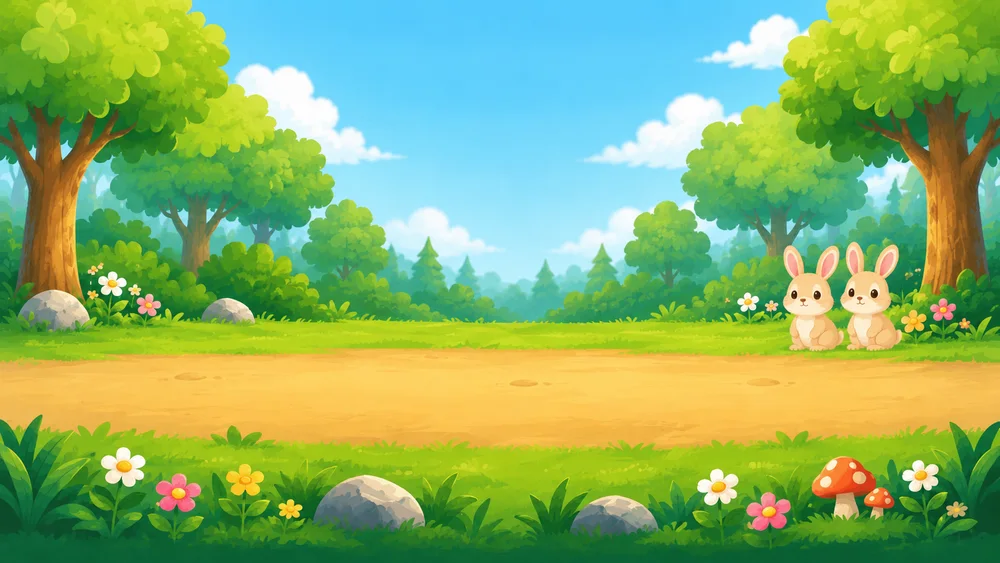
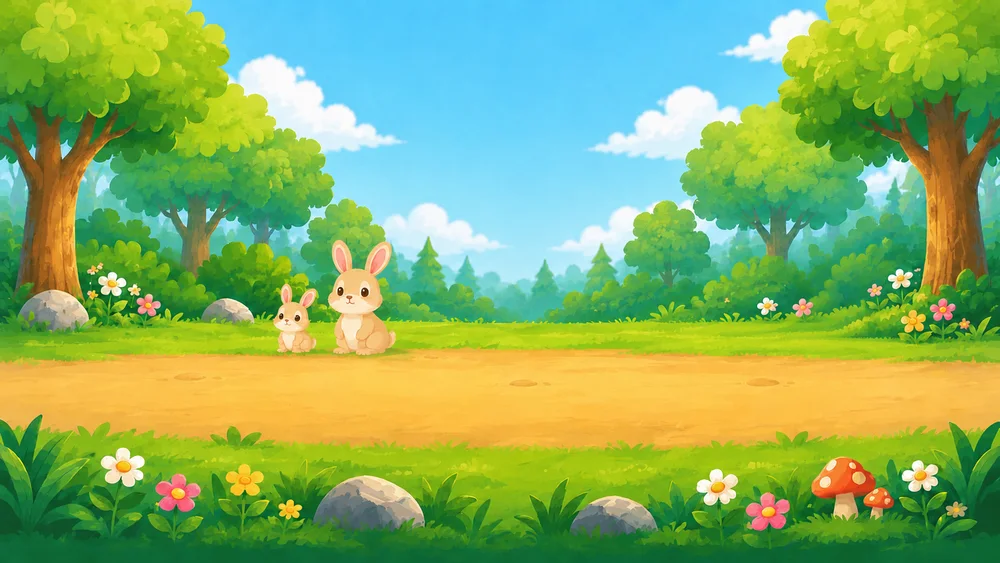
feat: 배경 3건 — 숲길 v2 교체 · 동굴 탑재 · 9번째 탐험 '초원을 달리자!'
사용자 원화 3장:
- 숲길 산책 v2 교체 (토끼 좌측 배치 — 도착 깃발 자리가 트임). v1은 art-src 보존
- 동굴 배경 탑재 — 왼쪽 입구에서 바닥 흙길 따라 오른쪽 수정 아치 출구로,
  별 깃발이 출구 팻말 옆에 꽂힘 (다크 톤 칩 유지)
- 초원 '초원을 달리자!' 신규 (9번째) — 양·풍차 초원, 결승선 별 깃발.
  순환: 강→산→숲→동굴→사막→바다→유적→숲길산책→초원→다시 강 (9일 주기)

검증(실제 앱 3배율): 동굴 출발/도착·초원 출발/도착·숲길v2 5개 상태 스크린샷,
9일 순환 롤 확인. vite build 통과.

Claude-Session: https://claude.ai/code/session_018maNuYqDfFyRSe9uKpZhPR

diff --git a/src/data/expeditions.js b/src/data/expeditions.js
@@ -92,7 +92,10 @@ export const EXPEDITIONS = {
       deco:[[6,28,"🌳",28],[14,62,"🍄",13],[93,30,"🌳",26],[87,66,"🌿",14],[9,84,"🦋",11]] } },
   cave: { key:"cave", title:"동굴을 빠져나가자!", emoji:"🕳",
     pose:"walk", item:"torch", goal:"🌕", goalImg:"assets/expedition/flag/yellow.webp",   // 어둠 속 별 깃발
+    bgImg:"assets/expedition/bg-cave.webp",   // 사용자 배경 원화 (왼쪽 입구→오른쪽 수정 아치 출구, 박쥐·수정)
     scene:{ sky:["#4D4661","#6B617E"], ground:["#5D5470","#443C55"], groundH:34,
+      /* 바닥 흙길을 따라 왼쪽 입구에서 오른쪽 수정 출구로 */
+      charB:20, goalB:24, x0:10, x1:80,
       deco:[[6,26,"🪨",22],[13,80,"💎",12],[93,26,"🦇",14],[88,64,"🪨",16],[95,80,"✨",10]], dark:true } },
   desert: { key:"desert", title:"사막을 건너자!", emoji:"🏜",
     pose:"ride", mount:"camel", goal:"🌴", goalImg:"assets/expedition/flag/red.webp",   // 모래 대비 빨간 깃발
@@ -104,11 +107,18 @@ export const EXPEDITIONS = {
       deco:[[6,28,"☁",18],[13,64,"🐚",12],[93,26,"🌴",24],[88,66,"🐬",14],[8,84,"🫧",11]] } },
   wood: { key:"wood", title:"숲길을 산책하자!", emoji:"🌲",
     pose:"walk", item:"lunchbox", goal:"🏡", goalImg:"assets/expedition/flag/green.webp",   // 숲 = 나뭇잎 깃발
-    bgImg:"assets/expedition/bg-wood.webp",   // 사용자 배경 원화 '그냥 숲 — 산책 컨셉' (원본 art-src/expedition/bg/)
+    bgImg:"assets/expedition/bg-wood.webp",   // 사용자 배경 원화 v2 (토끼 좌측 배치 — 원본 art-src/expedition/bg/)
     scene:{ sky:["#CBE8F5","#EAF6E9"], ground:["#A9CF7F","#8AB763"], groundH:36,
-      /* 넓은 흙길이 하단을 가로지른다 — 길 위 산책. 토끼들(우측 잔디)은 장식 */
+      /* 넓은 흙길이 하단을 가로지른다 — 길 위 산책. 토끼들(좌측 잔디)은 장식 */
       charB:22, goalB:24, x0:10, x1:81,
       deco:[[6,30,"🌳",26],[14,64,"🌼",13],[93,30,"🌳",26],[87,66,"🌿",14],[9,84,"🐇",12]] } },
+  meadow: { key:"meadow", title:"초원을 달리자!", emoji:"🌾",
+    pose:"walk", goal:"🏁", goalImg:"assets/expedition/flag/yellow.webp",   // 결승선 = 별 깃발
+    bgImg:"assets/expedition/bg-meadow.webp",   // 사용자 배경 원화 (양·풍차 초원 — 원본 art-src/expedition/bg/)
+    scene:{ sky:["#BDE3F7","#EAF6E0"], ground:["#A5D06A","#8CBE52"], groundH:38,
+      /* 탁 트인 풀밭을 달린다 — 양(중앙)은 장식, 풍차 언덕이 도착 방향 */
+      charB:24, goalB:28, x0:10, x1:81,
+      deco:[[6,30,"🌳",26],[14,66,"🌼",13],[93,26,"🌻",18],[87,66,"🌿",14],[8,84,"🦋",11]] } },
   ruins: { key:"ruins", title:"보물상자를 찾자!", emoji:"🎁",
     pose:"walk", item:"map", goal:"🎁", goalImg:"assets/expedition/flag/yellow.webp",   // 보물 = 별 깃발
     scene:{ sky:["#E4D9C3","#F4EDDD"], ground:["#C8B48E","#AE9770"], groundH:36,
@@ -116,7 +126,7 @@ export const EXPEDITIONS = {
 };
 
 /* 순환 순서 — 배열 순서 = 탐험 순서. 새 배경은 끝에 추가. */
-export const EXPEDITION_ORDER = ["river","mountain","forest","cave","desert","sea","ruins","wood"];   // 8번째 "숲길 산책" 추가 — 주간 반복이 깨짐
+export const EXPEDITION_ORDER = ["river","mountain","forest","cave","desert","sea","ruins","wood","meadow"];   // 순서대로 순환 — 새 배경은 끝에 추가
 /* 기준일(2026-01-05 월 = 강)부터 하루에 한 칸씩 순서대로 돈다.
    날짜만으로 정해지는 고정 시드라 과거·미래 어느 날짜를 열어도 항상 같다. */
 const EXP_EPOCH = new Date("2026-01-05T00:00:00");

diff --git a/art-src/README.md b/art-src/README.md
@@ -167,3 +167,6 @@ halo가 외곽선을 흐려서 생긴 착시였다.
 | expedition/bg/bg-mountain-src.png | 바위산 배경 (화요일, 1536×1024 — 돌계단 대각선 등반) | expedition/bg-mountain.webp |
 | expedition/bg/bg-forest-v2-src.png | 깊은 숲 배경 v2 (수요일 현행 — v1 숲길 교체, 여우·부엉이·개울) | expedition/bg-forest.webp |
 | expedition/bg/bg-wood-src.png | 숲길 산책 배경 (8번째 탐험 '숲길을 산책하자!' — 토끼 두 마리) | expedition/bg-wood.webp |
+| expedition/bg/bg-wood-v2-src.png | 숲길 산책 배경 v2 (토끼 좌측 배치 — v1 교체, 현행) | expedition/bg-wood.webp |
+| expedition/bg/bg-cave-src.png | 동굴 배경 (왼쪽 입구→오른쪽 수정 아치 출구, 박쥐·수정) | expedition/bg-cave.webp |
+| expedition/bg/bg-meadow-src.png | 초원 배경 (9번째 탐험 '초원을 달리자!' — 양·풍차) | expedition/bg-meadow.webp |
